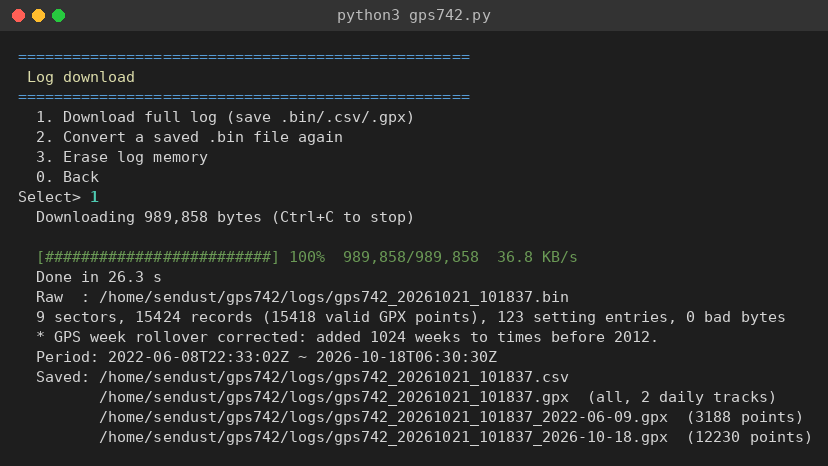
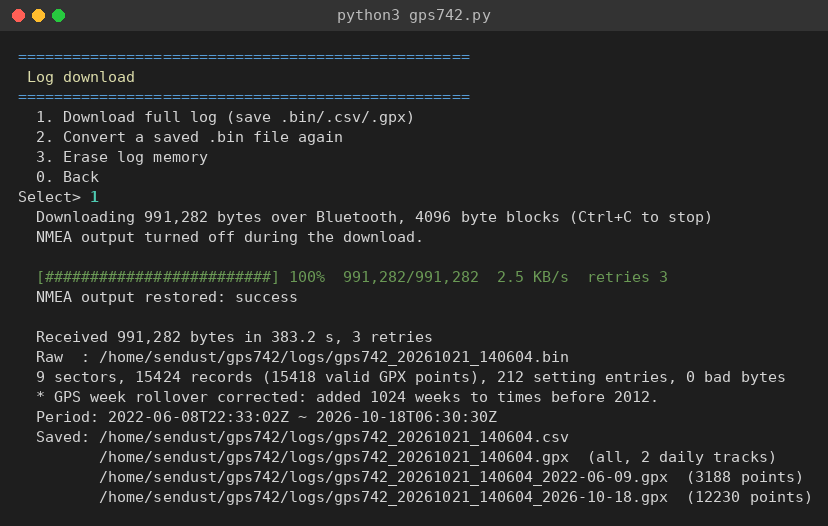
Update README screenshots to a Bluetooth session
Captured from a real run over /dev/rfcomm0: port selection, top menu,
logger settings, and a full log download with 4 KB blocks.

diff --git a/README.md b/README.md
@@ -150,11 +150,11 @@ In prompts that ask for a value, an empty Enter cancels.
 
 ## Screenshots
 
-Port selection, top menu and logger settings:
+Port selection, top menu and logger settings over Bluetooth (`/dev/rfcomm0`):
 
 ![CLI menu](docs/cli_menu.png)
 
-Log download:
+Log download over Bluetooth (4 KB blocks, NMEA output off during the transfer):
 
 ![CLI download](docs/cli_download.png)
 
